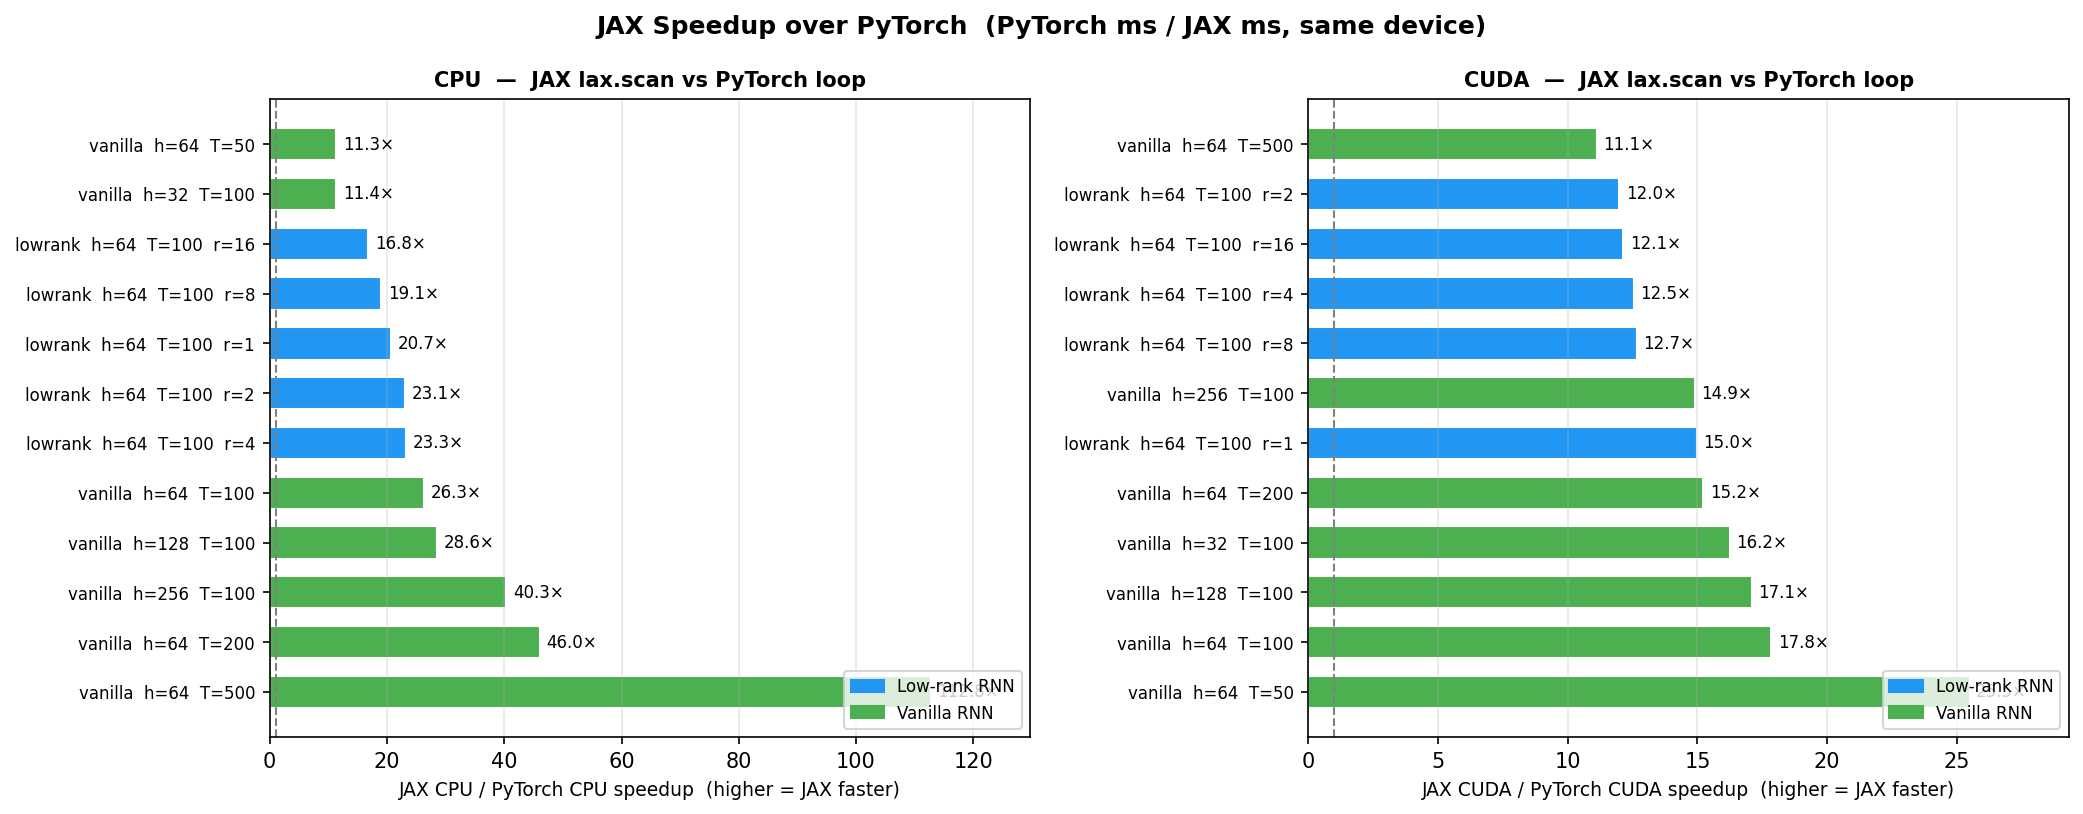
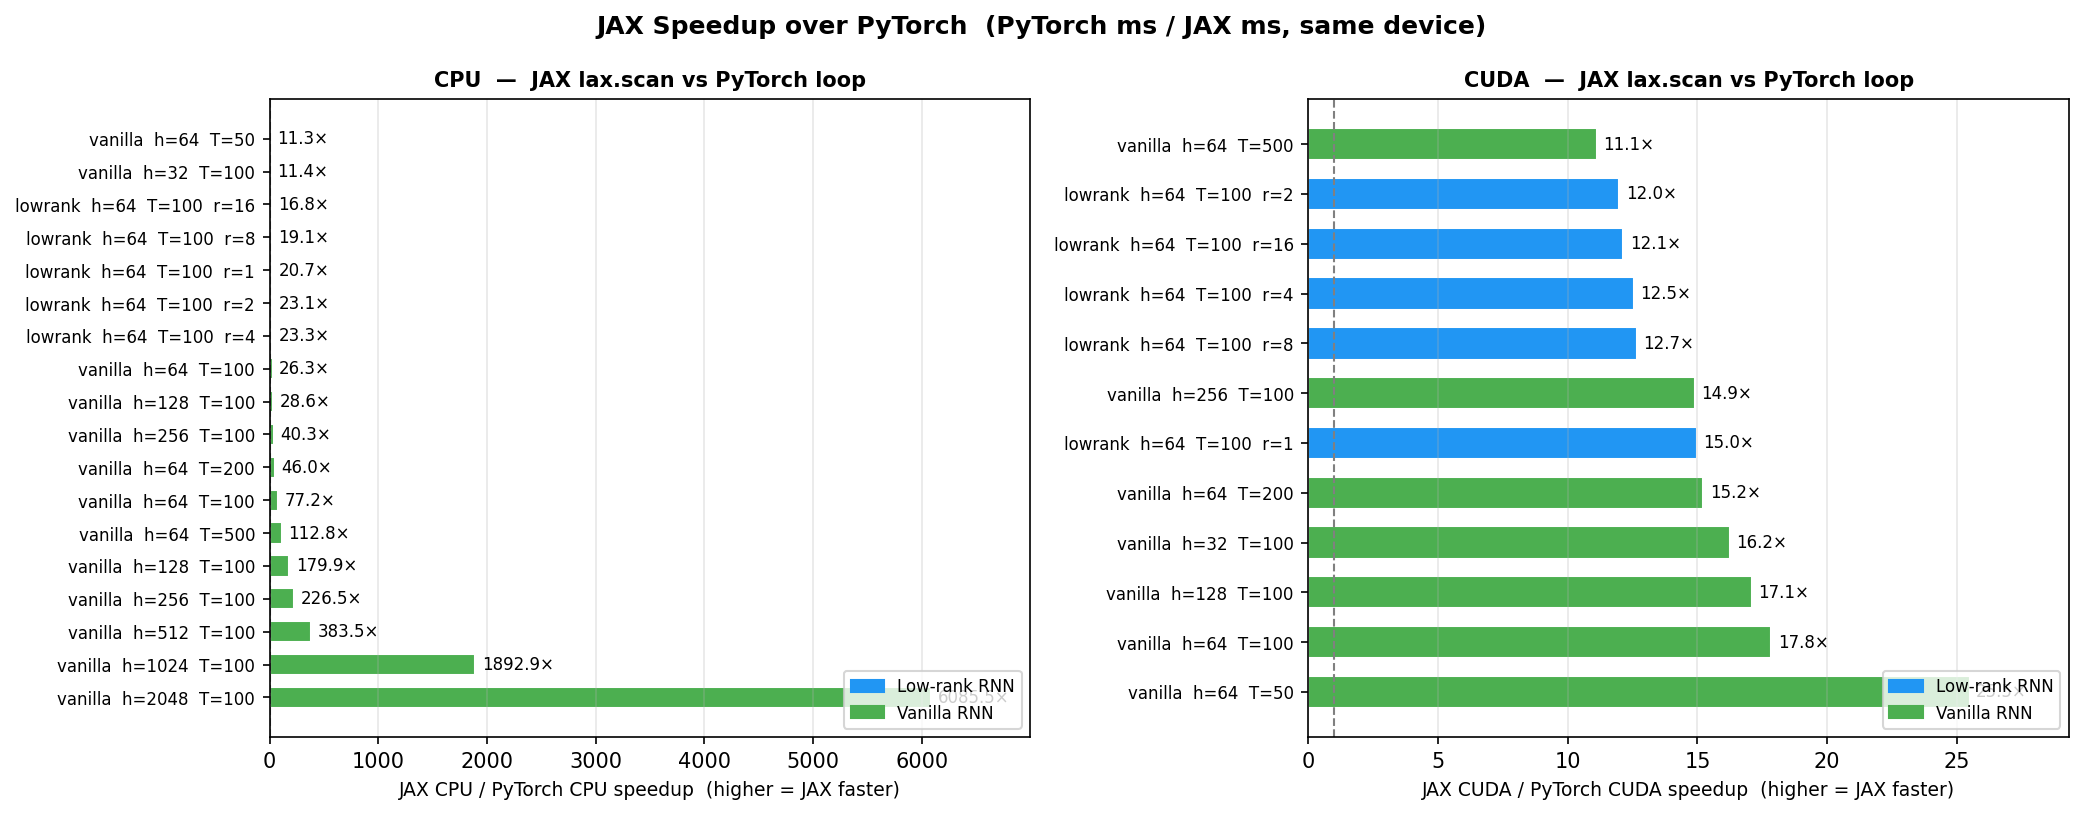
Add large-scale hidden sweep (batch=512, hidden up to 2048)
Run benchmarks with batch=512 across hidden=[64,128,256,512,1024,2048]
on CPU and MPS to identify the scale where GPU overtakes CPU.

New figure benchmark_largescale (two panels):
  A: log-log step time vs hidden size — JAX CPU stays flat at ~0.3ms
     while PyTorch CPU scales as ~O(h^2); MPS loop overhead flattens
     at small h but grows at large h
  B: speedup over PyTorch CPU at each hidden size (grouped bars);
     note for pending CUDA results at batch=512 included in footer

Key findings at batch=512:
  - JAX CPU: 0.29-0.33ms flat across all hidden sizes (XLA fuses scan)
  - PyTorch MPS beats PyTorch CPU at h>=512 (crossover annotated)
  - At h=2048: JAX CPU 0.31ms, MPS 331ms, CPU 1897ms
  - CUDA results at batch=512 still pending from remote server

diff --git a/benchmarks/plot_benchmarks.py b/benchmarks/plot_benchmarks.py
@@ -360,6 +360,135 @@ def plot_cuda(all_records):
 
 
 # ---------------------------------------------------------------------------
+# Figure 5 — large-scale hidden sweep (batch=512, seq_len=100)
+# ---------------------------------------------------------------------------
+
+def plot_largescale(all_records):
+    """
+    Hidden size swept from 64→2048 at batch=512. Two panels:
+      Left:  log-scale step time vs hidden size (JAX CPU, Torch CPU, Torch MPS, Torch CUDA)
+      Right: speedup over PyTorch CPU at each hidden size
+    """
+    BATCH, SEQ = 512, 100
+    hiddens = [64, 128, 256, 512, 1024, 2048]
+
+    combos = [
+        ('jax',   'cpu',  STYLE[('jax',   'cpu')]),
+        ('torch', 'cpu',  STYLE[('torch', 'cpu')]),
+        ('torch', 'gpu',  STYLE[('torch', 'gpu')]),
+        ('torch', 'cuda', STYLE[('torch', 'cuda')]),
+    ]
+
+    fig, axes = plt.subplots(1, 2, figsize=(14, 5.5))
+    fig.suptitle(
+        f'Large-scale hidden sweep  (batch={BATCH}, seq_len={SEQ}, vanilla RNN)',
+        fontsize=12, fontweight='bold')
+
+    # ── Left: absolute step times (log y) ────────────────────────────────
+    ax = axes[0]
+    for fw, dev, sty in combos:
+        recs = select(all_records, framework=fw, device=dev,
+                      model='vanilla', seq_len=SEQ, batch=BATCH)
+        if not recs:
+            continue
+        recs = sorted(recs, key=lambda r: r['hidden'])
+        xs  = [r['hidden']     for r in recs]
+        ys  = [r['median_ms']  for r in recs]
+        lo  = [r['median_ms'] - r['min_ms']  for r in recs]
+        hi  = [r['max_ms']    - r['median_ms'] for r in recs]
+        ax.errorbar(xs, ys, yerr=[lo, hi],
+                    color=sty['color'], ls=sty['ls'], marker=sty['marker'],
+                    ms=6, lw=2, capsize=3, label=sty['label'])
+        ax.fill_between(xs,
+                         [y - l for y, l in zip(ys, lo)],
+                         [y + h for y, h in zip(ys, hi)],
+                         color=sty['color'], alpha=ALPHA_BAND)
+
+    ax.set_yscale('log')
+    ax.set_xscale('log', base=2)
+    ax.set_xticks(hiddens)
+    ax.xaxis.set_major_formatter(ticker.ScalarFormatter())
+    ax.yaxis.set_major_formatter(ticker.ScalarFormatter())
+    ax.set_xlabel('Hidden size', fontsize=10)
+    ax.set_ylabel('Median step time (ms, log scale)', fontsize=10)
+    ax.set_title('A  Step time vs hidden size', fontsize=10, fontweight='bold')
+    ax.legend(fontsize=8)
+    ax.grid(True, which='both', alpha=0.25)
+
+    # Annotate crossover where MPS beats CPU
+    mps_recs   = {r['hidden']: r for r in select(all_records, framework='torch',
+                  device='gpu', model='vanilla', seq_len=SEQ, batch=BATCH)}
+    cpu_recs   = {r['hidden']: r for r in select(all_records, framework='torch',
+                  device='cpu', model='vanilla', seq_len=SEQ, batch=BATCH)}
+    crossovers = [h for h in hiddens
+                  if h in mps_recs and h in cpu_recs
+                  and mps_recs[h]['median_ms'] < cpu_recs[h]['median_ms']]
+    if crossovers:
+        x0 = crossovers[0]
+        ax.axvline(x0, color='grey', lw=1, ls=':', alpha=0.7)
+        ax.text(x0 * 1.05, ax.get_ylim()[0] * 1.5,
+                f'MPS < CPU\n(h≥{x0})', fontsize=7.5, color='grey', va='bottom')
+
+    # ── Right: speedup over PyTorch CPU ──────────────────────────────────
+    ax2 = axes[1]
+    ref = {r['hidden']: r['median_ms']
+           for r in select(all_records, framework='torch', device='cpu',
+                           model='vanilla', seq_len=SEQ, batch=BATCH)}
+    if not ref:
+        ax2.set_visible(False)
+    else:
+        speedup_combos = [
+            ('jax',   'cpu',  STYLE[('jax',   'cpu')],  'JAX CPU / PyTorch CPU'),
+            ('torch', 'gpu',  STYLE[('torch', 'gpu')],  'PyTorch MPS / PyTorch CPU'),
+            ('torch', 'cuda', STYLE[('torch', 'cuda')], 'PyTorch CUDA / PyTorch CPU'),
+            ('jax',   'cuda', STYLE[('jax',   'cuda')], 'JAX CUDA / PyTorch CPU'),
+        ]
+        x = np.arange(len(hiddens))
+        bw = 0.18
+        offsets = np.linspace(-(len(speedup_combos)-1)/2, (len(speedup_combos)-1)/2,
+                              len(speedup_combos)) * bw
+
+        for (fw, dev, sty, lbl), offset in zip(speedup_combos, offsets):
+            recs_d = {r['hidden']: r['median_ms']
+                      for r in select(all_records, framework=fw, device=dev,
+                                      model='vanilla', seq_len=SEQ, batch=BATCH)}
+            ratios = [ref.get(h, None) / recs_d.get(h, None)
+                      if (h in ref and h in recs_d) else None
+                      for h in hiddens]
+            valid_x = [x[i] + offset for i, v in enumerate(ratios) if v is not None]
+            valid_r = [v for v in ratios if v is not None]
+            if valid_r:
+                ax2.bar(valid_x, valid_r, width=bw * 0.9,
+                        color=sty['color'], label=lbl, alpha=0.85)
+
+        ax2.axhline(1.0, color='grey', lw=1, ls='--')
+        ax2.set_xticks(x)
+        ax2.set_xticklabels([str(h) for h in hiddens])
+        ax2.set_xlabel('Hidden size', fontsize=10)
+        ax2.set_ylabel('Speedup over PyTorch CPU  (higher = faster)', fontsize=10)
+        ax2.set_title('B  Speedup over PyTorch CPU', fontsize=10, fontweight='bold')
+        ax2.legend(fontsize=8)
+        ax2.grid(True, axis='y', alpha=0.3)
+        ax2.set_yscale('log')
+        ax2.yaxis.set_major_formatter(ticker.ScalarFormatter())
+
+    # Note about pending CUDA data
+    cuda_present = any(r['device'] == 'cuda' and r['batch'] == BATCH
+                       and r['model'] == 'vanilla' and r['seq_len'] == SEQ
+                       for r in all_records)
+    if not cuda_present:
+        fig.text(0.5, -0.03,
+                 'CUDA results at batch=512 pending — run on remote GPU server:\n'
+                 'for h in 64 128 256 512 1024 2048; do python benchmarks/run_benchmarks.py '
+                 '--device cuda --framework both --model vanilla --hidden $h --seq-len 100 --batch 512; done',
+                 ha='center', fontsize=7.5, color='grey', style='italic',
+                 transform=fig.transFigure)
+
+    plt.tight_layout()
+    _savefig(fig, 'benchmark_largescale')
+
+
+# ---------------------------------------------------------------------------
 # Helpers
 # ---------------------------------------------------------------------------
 
@@ -385,6 +514,7 @@ if __name__ == '__main__':
 
     plot_sweeps(records)
     plot_speedup(records)
+    plot_largescale(records)
     plot_cpu_vs_mps(records)
     plot_cuda(records)
     print('Done.')